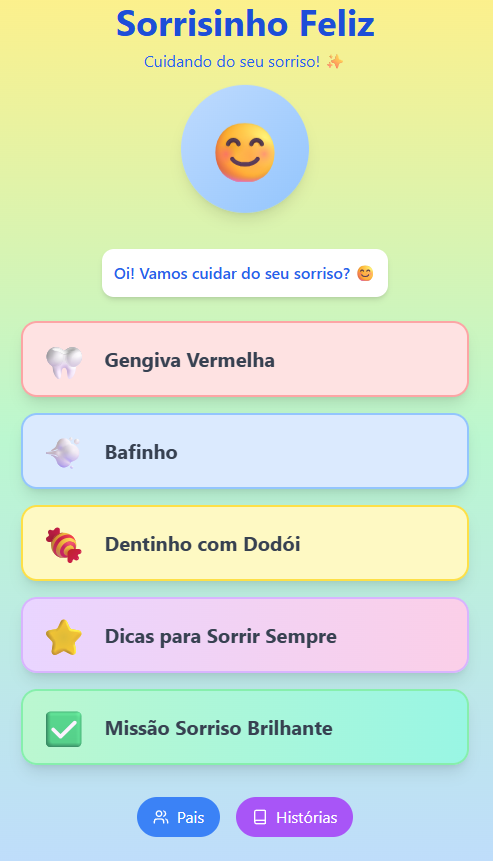
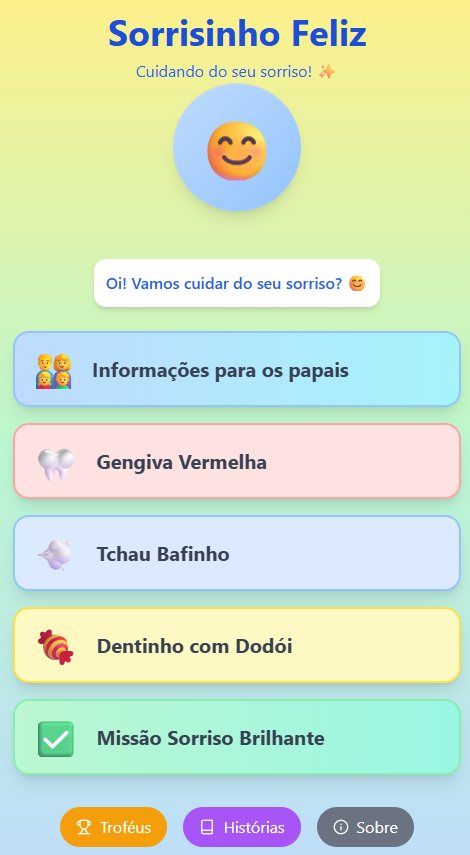
liberando historias por numero de medalhas

diff --git a/index.html b/index.html
@@ -2,13 +2,13 @@
 <html lang="pt-br">
   <head>
     <!-- Google tag (gtag.js) -->
-    <script async src="https://www.googletagmanager.com/gtag/js?id=G-CKRGQLXLLK"></script>
+    <script async src="https://www.googletagmanager.com/gtag/js?id=G-MRG2WHRV9L"></script>
     <script>
       window.dataLayer = window.dataLayer || [];
       function gtag(){dataLayer.push(arguments);}
       gtag('js', new Date());
 
-      gtag('config', 'G-CKRGQLXLLK');
+      gtag('config', 'G-MRG2WHRV9L');
     </script>
     <meta charset="UTF-8" />
     <link rel="icon" type="image/x-icon" href="/ico.png" />

diff --git a/README.md b/README.md
@@ -4,15 +4,15 @@
 
 ## 📖 Sobre o Projeto
 
-**Sorrisinho Feliz** é um aplicativo web educacional e interativo, desenvolvido como um projeto de faculdade, com o objetivo de ensinar crianças sobre a importância da saúde bucal de uma forma lúdica e divertida. O aplicativo aborda sintomas comuns como gengivite, halitose e cáries, oferecendo guias de escovação passo a passo para cada caso, além de dicas gerais, um checklist de tarefas e uma área informativa para os pais.
+**Sorrisinho Feliz** é um aplicativo web educacional e interativo, desenvolvido como um projeto de faculdade, com o objetivo de ensinar crianças sobre a importância da saúde bucal de uma forma lúdica e divertida. O aplicativo aborda sintomas comuns como gengivite, halitose e cáries, oferecendo guias de escovação passo a passo e um robusto sistema de gamificação para engajar os pequenos.
 
 ---
 
 ## 🚀 Funcionalidades Principais
 
 * **Guias de Escovação Interativos:** Tutoriais passo a passo e com cronômetro para diferentes necessidades (Gengivite, Halitose, Cárie).
-* **Checklist de Missões:** Um sistema de gamificação ("Missão Sorriso Brilhante") onde a criança marca tarefas diárias de higiene e ganha medalhas.
-* **Dicas e Histórias:** Seções com dicas rápidas para manter o sorriso saudável e histórias infantis sobre o tema.
+* **Sistema de Gamificação e Recompensas:** A "Missão Sorriso Brilhante" incentiva a conclusão de tarefas diárias de higiene. Medalhas são concedidas por categoria e podem ser visualizadas em uma "Sala de Troféus" com calendários de conquista.
+* **Histórias Desbloqueáveis:** Histórias infantis sobre saúde bucal são liberadas conforme a criança conquista mais medalhas, incentivando o progresso contínuo.
 * **Área para os Pais:** Uma seção com informações mais técnicas sobre cada condição, ajudando os pais a entenderem os problemas e quando procurar um dentista.
 * **PWA (Progressive Web App):** Pode ser instalado em dispositivos móveis como um aplicativo nativo.
 * **Design Lúdico e Amigável:** Interface colorida, com emojis e uma linguagem simples para engajar o público infantil.
@@ -27,7 +27,7 @@ Este projeto foi construído com tecnologias modernas de desenvolvimento front-e
 * **[Vite](https://vitejs.dev/)**: Ferramenta de build moderna e ultrarrápida para desenvolvimento front-end.
 * **[TypeScript](https://www.typescriptlang.org/)**: Superset do JavaScript que adiciona tipagem estática.
 * **[Tailwind CSS](https://tailwindcss.com/)**: Framework CSS utility-first para estilização rápida e responsiva.
-* **[Lucide React](https://lucide.dev/)**: Biblioteca de ícones SVG.
+* **[Lucide React](https://lucide.dev/)**: Biblioteca de ícones SVG leves e consistentes.
 * **[Vite PWA](https://vite-pwa-org.netlify.app/)**: Plugin para transformar o site em um Progressive Web App.
 
 ---
@@ -57,3 +57,23 @@ Para rodar o projeto na sua máquina, siga os passos abaixo:
     ```
 
 5.  Abra [http://localhost:5173](http://localhost:5173) no seu navegador para ver o aplicativo.
+
+---
+
+## 👥 Autores e Orientadores
+
+Este projeto foi desenvolvido com a dedicação dos seguintes alunos:
+
+*   Anita Beatriz Barbosa Santos
+*   Francisco Antônio Santana de Melo
+*   João Vitor Lins
+*   José Elerson Porto Costa
+*   Letícia Thicyanne Melo Godoy Sousa
+*   Marina Gomes da Silva
+
+Sob a orientação das discentes:
+
+*   Emily Feitosa Rêgo
+*   Isabelly Eduarda Avelino
+
+Agradecemos a todos pelo empenho e colaboração!
